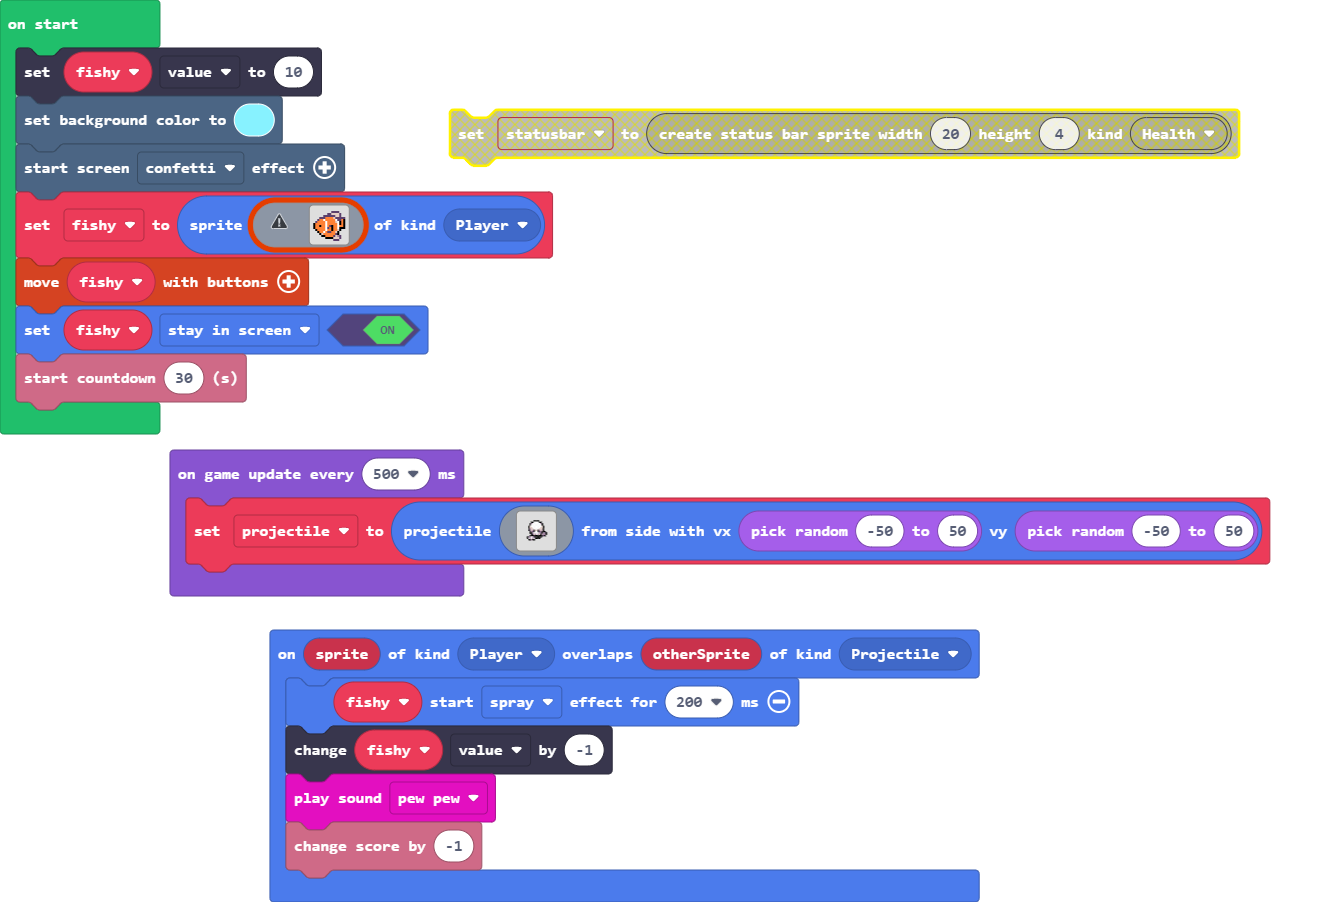
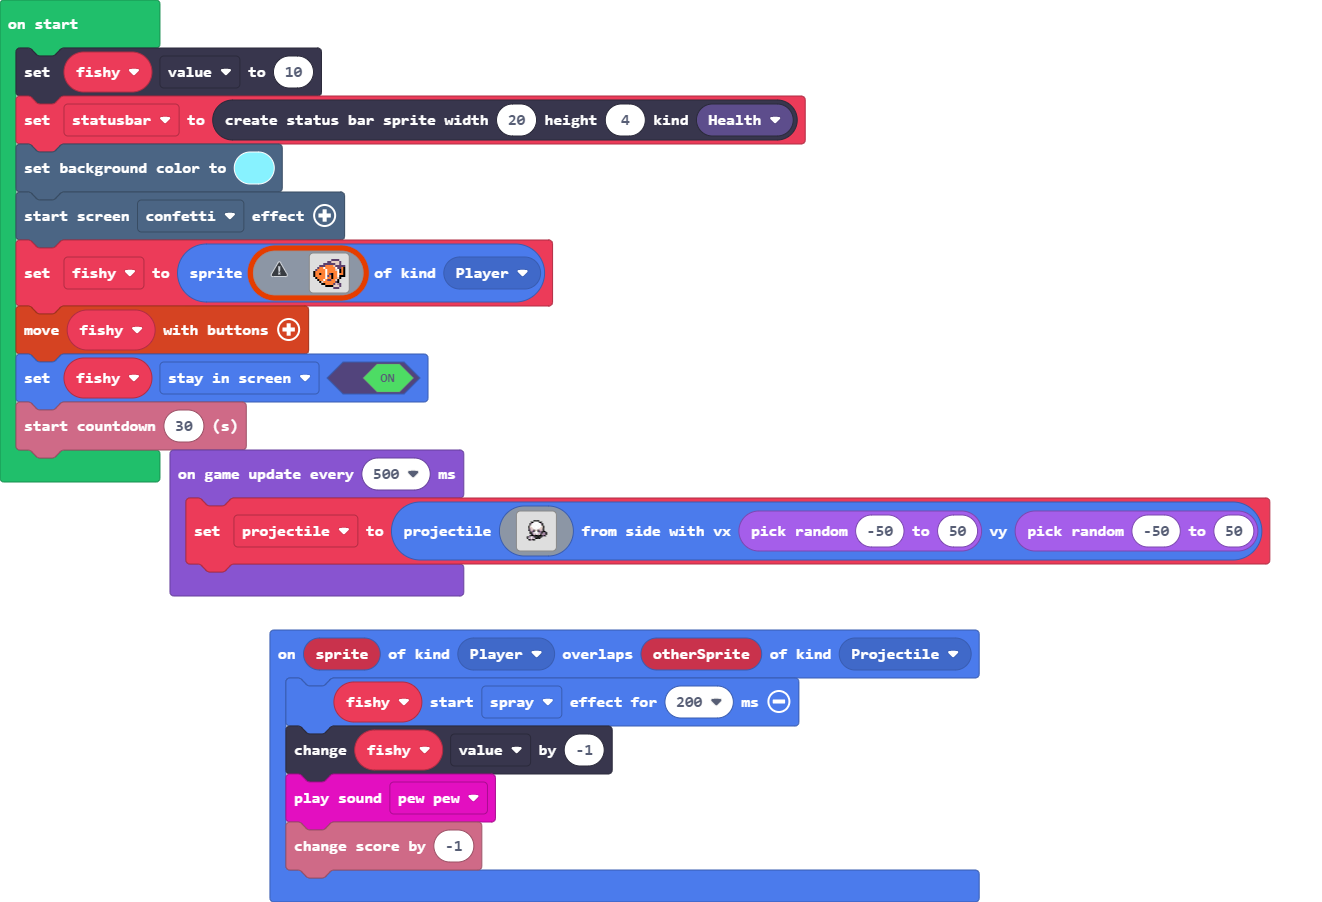
Update main.blocks, main.ts

Changed region(s): [[0.0, 0.0931, 0.9614, 0.5588]]

diff --git a/main.ts b/main.ts
@@ -5,11 +5,10 @@ sprites.onOverlap(SpriteKind.Player, SpriteKind.Projectile, function (sprite, ot
     info.changeScoreBy(-1)
 })
 let projectile: Sprite = null
-let fishy: Sprite = null
-let statusbar = statusbars.create(20, 4, StatusBarKind.Health)
+let fishy: StatusBarSprite = null
 fishy.value = 10
+let statusbar = statusbars.create(20, 4, StatusBarKind.Health)
 scene.setBackgroundColor(9)
-info.setScore(1000)
 effects.confetti.startScreenEffect()
 fishy = sprites.create(img`
     . . . . . . . . . . . . . . . . 
